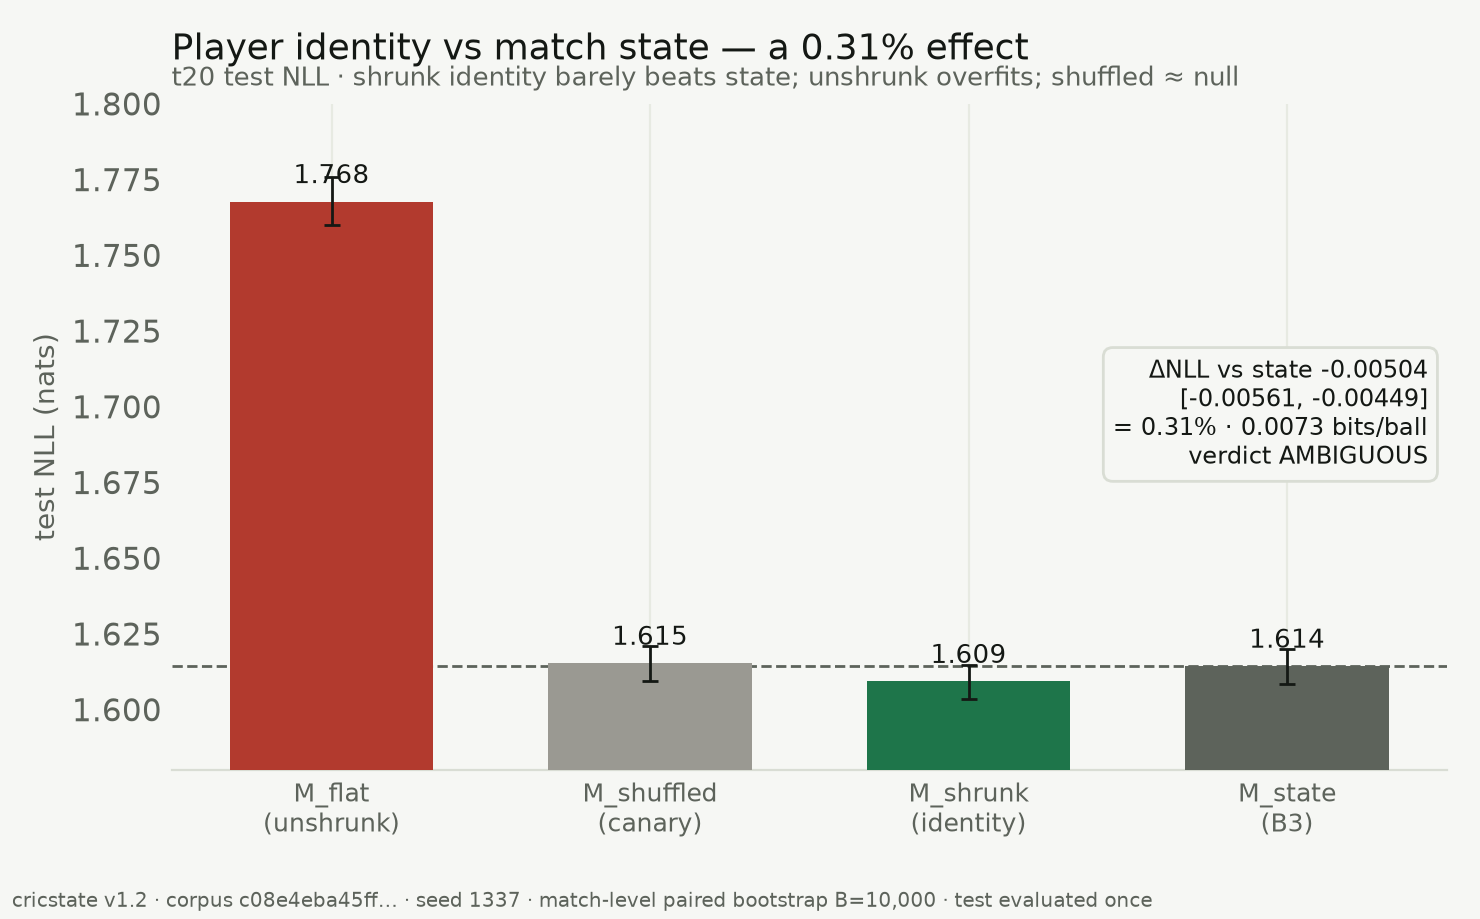
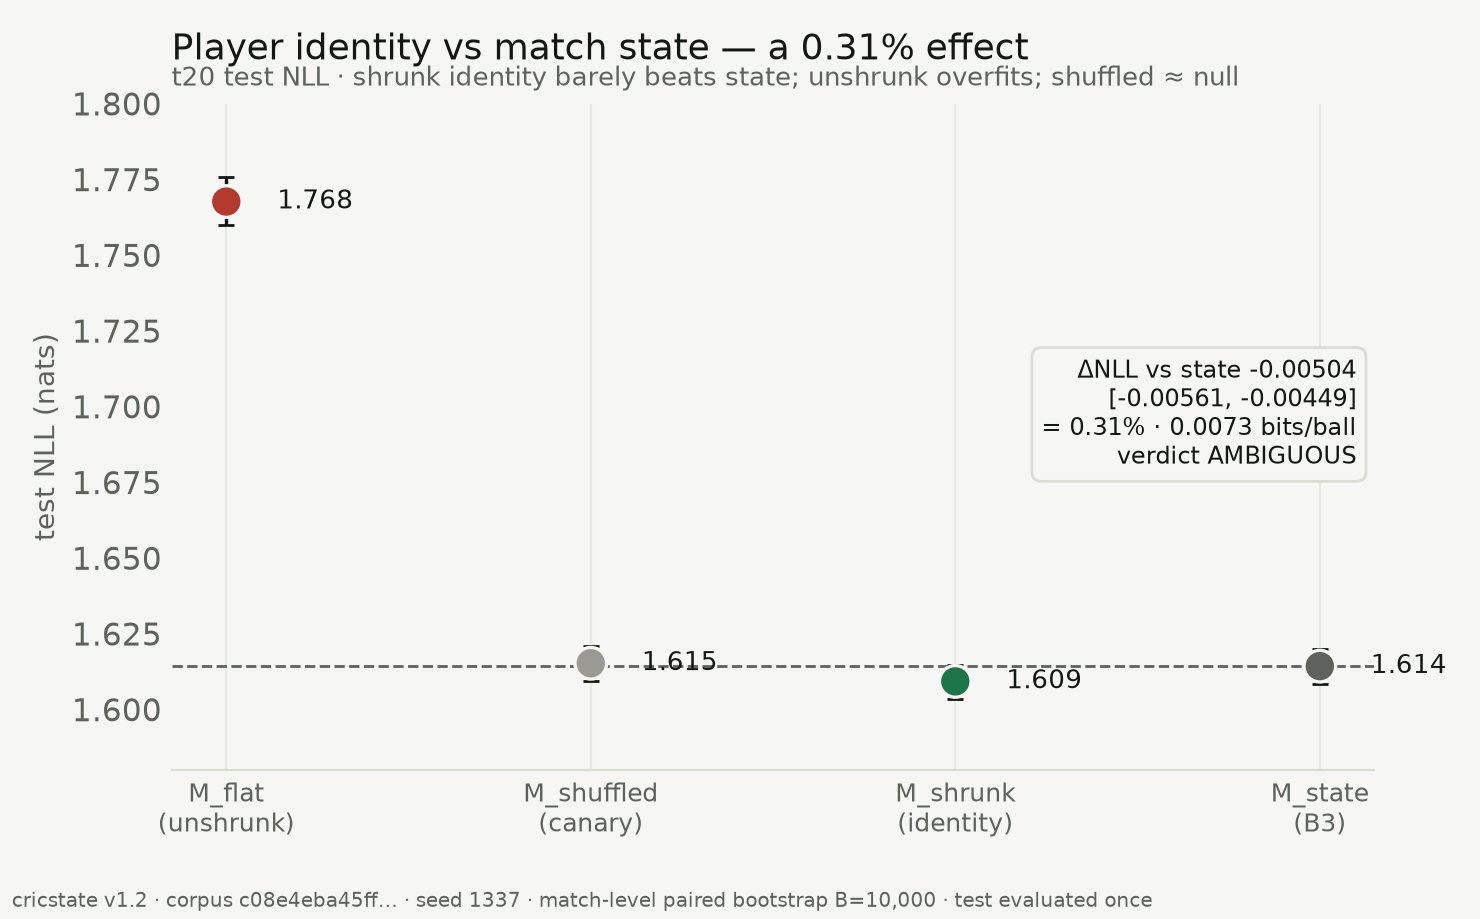
fig: convert fig1/fig2 from truncated-axis bars to honest dot+CI plots
Both charts drew bars from a truncated baseline (fig1 x from 1.58, fig2 y from
1.58), so bar length implied a false ratio and visually exaggerated the small,
real differences — on a project whose thesis is honest measurement, that
undercuts itself. Redrawn as forest-style dot + 95% CI plots: position encodes
the value, so a zoomed axis that reveals the small gaps and their intervals no
longer implies a magnitude-from-zero. fig1 now shows the four ladder rungs with
separated CIs; fig2 shows M_flat's overfit far above a tight cluster hugging the
state reference line. fig4/fig5 were already zero-based; regeneration left the
other four figures byte-identical.

diff --git a/src/visualization/figures.py b/src/visualization/figures.py
@@ -40,14 +40,18 @@ def fig_state_ladder(s: dict[str, Any]) -> None:
         "t20 · per-ball outcome NLL on the test split (lower is better) · 95% CI",
     )
     y = np.arange(len(names))[::-1]
-    ax.barh(y, vals, color=plots.GREEN_RAMP, height=0.62, zorder=3)
+    # Dot + CI, not bars: position (not length-from-zero) encodes the value, so a
+    # zoomed axis that reveals the small, real gaps does not imply a false ratio.
     ax.errorbar(
-        vals, y, xerr=errs, fmt="none", ecolor=plots.INK, elinewidth=1.0, capsize=3, zorder=4
+        vals, y, xerr=errs, fmt="none", ecolor=plots.INK, elinewidth=1.2, capsize=3, zorder=3
+    )
+    ax.scatter(
+        vals, y, c=plots.GREEN_RAMP, s=120, zorder=4, edgecolors=plots.SURFACE, linewidths=1.2
     )
     for yi, n in zip(y, names, strict=True):
         hi = ladder[n]["ci"][1]
         ax.text(
-            hi + 0.0025,
+            hi + 0.004,
             yi,
             f"{ladder[n]['nll']:.3f}",
             va="center",
@@ -58,7 +62,8 @@ def fig_state_ladder(s: dict[str, Any]) -> None:
         )
     ax.set_yticks(y)
     ax.set_yticklabels(labels)
-    ax.set_xlim(1.58, 1.715)
+    ax.set_ylim(-0.6, len(names) - 0.4)
+    ax.set_xlim(1.60, 1.715)
     ax.set_xlabel("test NLL (nats)")
     plots.footnote(fig, s["meta"])
     plots.save(fig, FIGDIR / "fig1_state_ladder.png")
@@ -77,14 +82,16 @@ def fig_identity_delta(s: dict[str, Any]) -> None:
         "t20 test NLL · shrunk identity barely beats state; unshrunk overfits; shuffled ≈ null",
     )
     x = np.arange(len(order))
-    ax.bar(x, vals, color=colors, width=0.64, zorder=3)
-    ax.errorbar(
-        x, vals, yerr=errs, fmt="none", ecolor=plots.INK, elinewidth=1.0, capsize=3, zorder=4
-    )
+    # Dot + CI, not bars: with M_flat far above a tight cluster, a zoomed dot plot
+    # shows both the overfit gap and the near-null shrunk effect honestly.
     state = m["M_state"]["nll"]
     ax.axhline(state, color=plots.MUTED, ls="--", lw=1.0, zorder=2)
+    ax.errorbar(
+        x, vals, yerr=errs, fmt="none", ecolor=plots.INK, elinewidth=1.2, capsize=3, zorder=3
+    )
+    ax.scatter(x, vals, c=colors, s=130, zorder=4, edgecolors=plots.SURFACE, linewidths=1.2)
     for xi, v in zip(x, vals, strict=True):
-        ax.text(xi, v + 0.004, f"{v:.3f}", va="bottom", ha="center", color=plots.INK, fontsize=9.5)
+        ax.text(xi + 0.14, v, f"{v:.3f}", va="center", ha="left", color=plots.INK, fontsize=9.5)
     ax.set_xticks(x)
     ax.set_xticklabels(labels, fontsize=9)
     ax.set_ylim(1.58, 1.80)